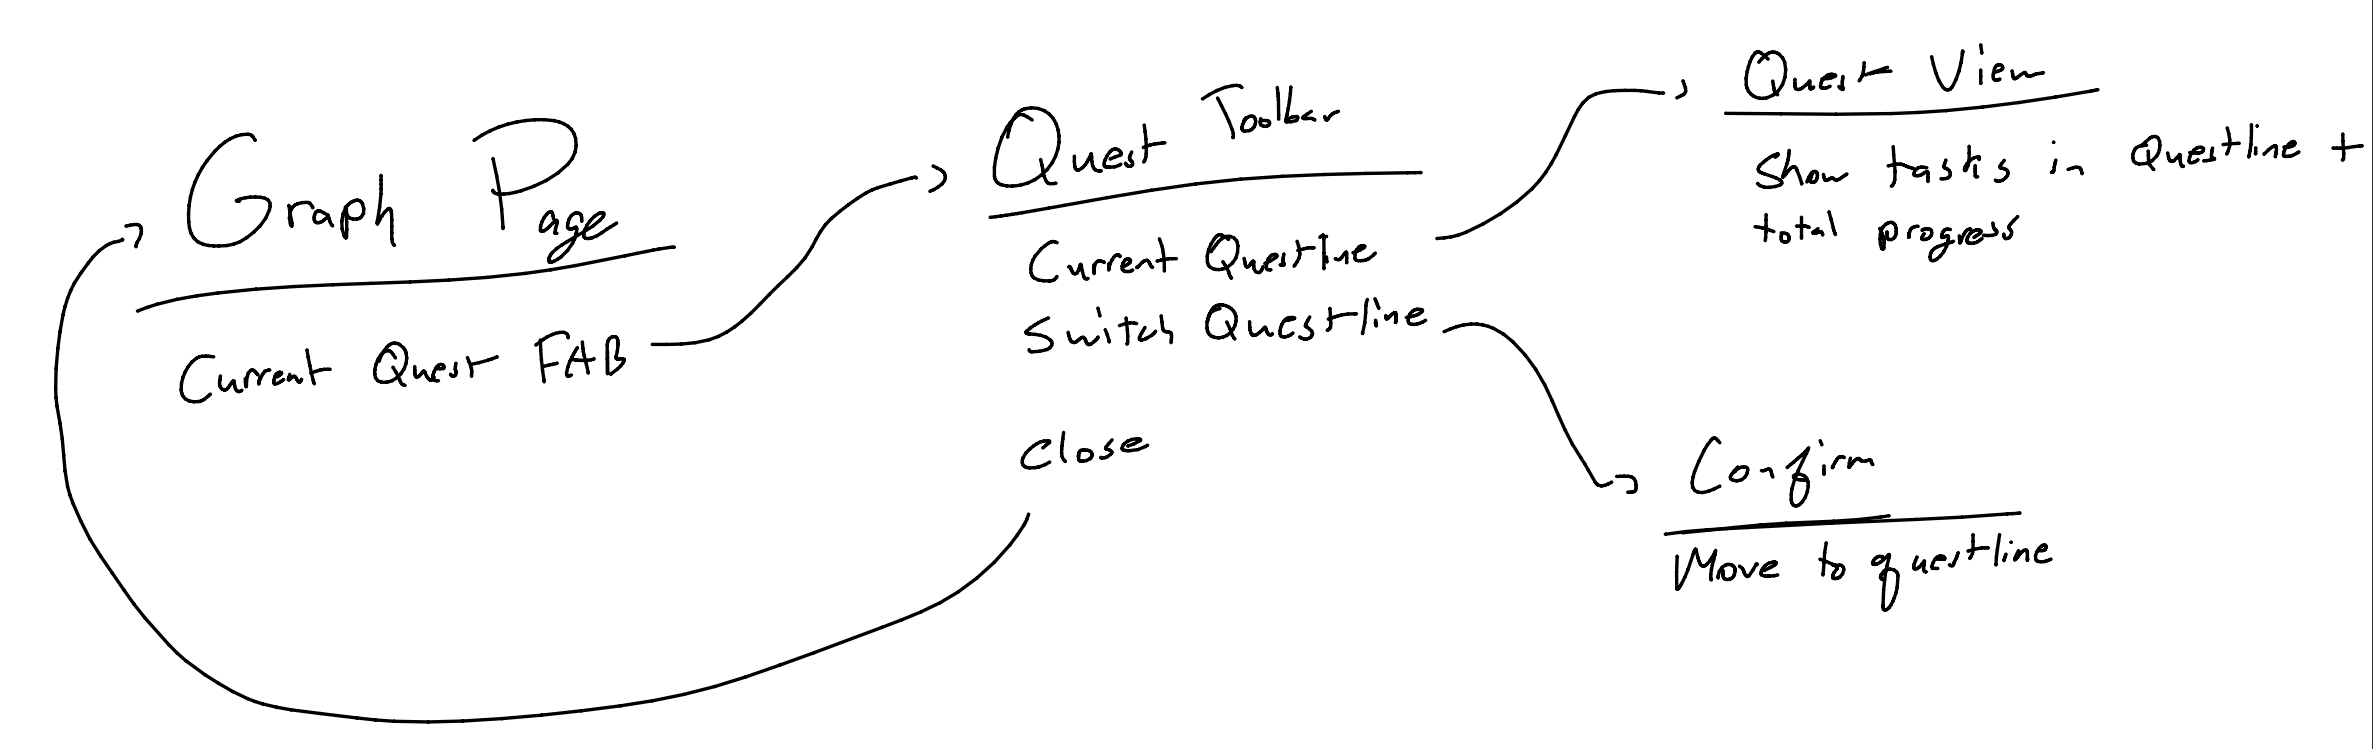
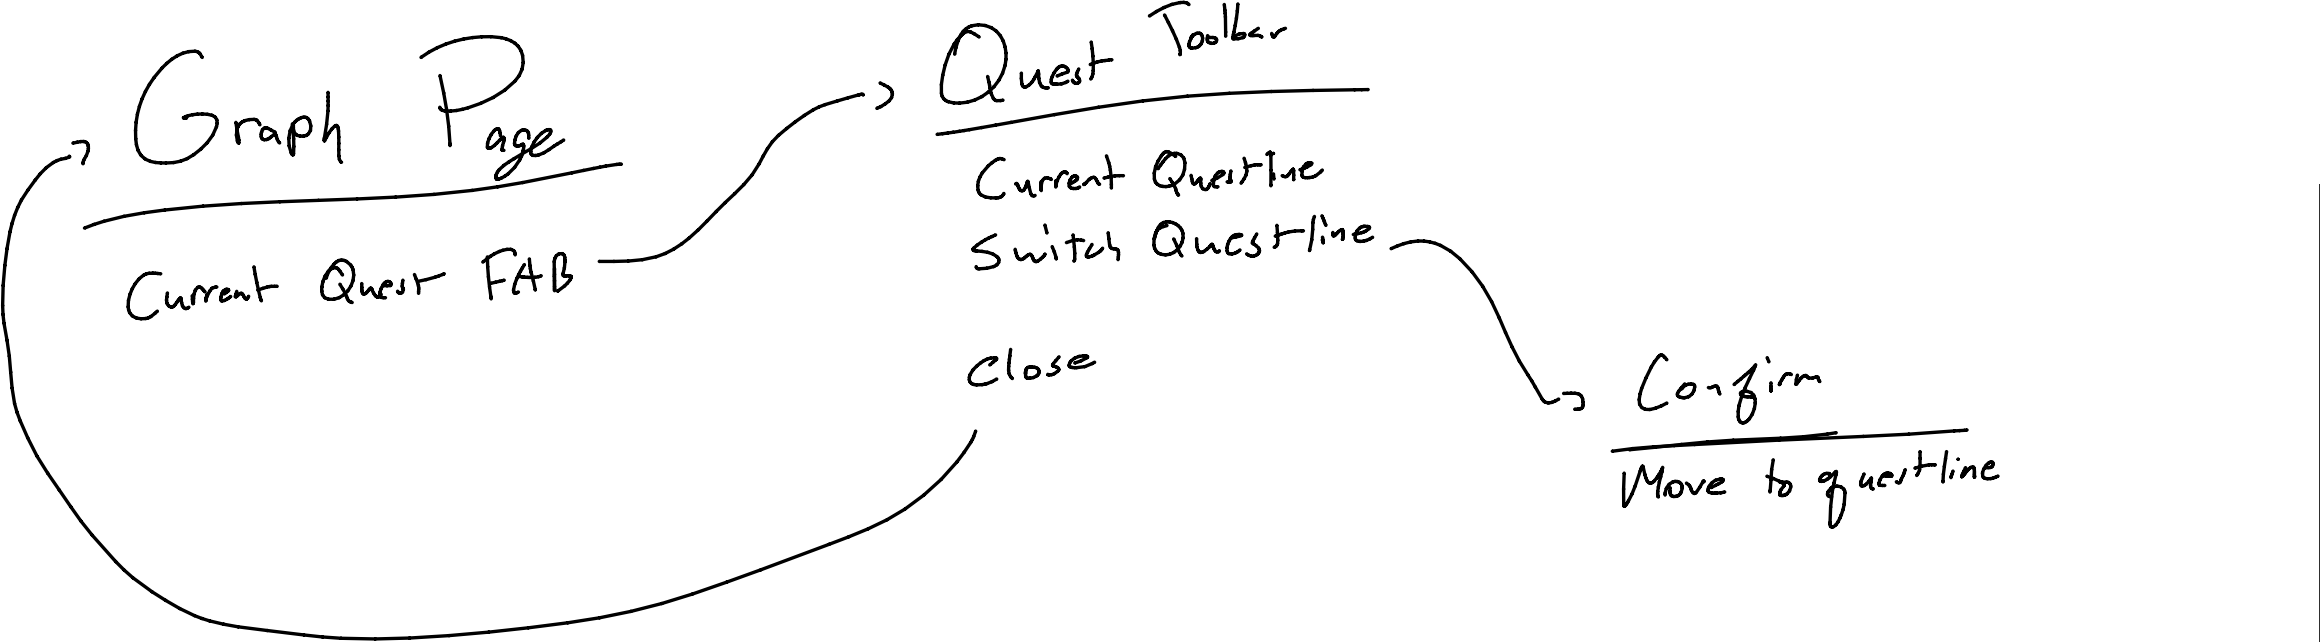
Apply discussed changes to pitch drawings

diff --git a/pitches/questline/README.md b/pitches/questline/README.md
@@ -26,7 +26,7 @@ This solution takes alot of inspiration from video games - particularly RPG's. M
 
 We want to implement the same sort of functionality in our software. Questlines are an easy way to keep track of your progress and game-ify tasks, allowing for user satisfaction and more importantly reducing the overwhelming aspect of choosing what to work on.
 
-Our solution is three parts: the Quest Toolbar, Quest View, and Current Task View. The Quest Toolbar is used to view the current questline and view progress, and the quest view will allow for the user to view all tasks in the line. The Current Task View would be an indicator of the current task to work on, so the user can quickly get to work without having to decide for themsevles. This would be on top of the current graph, and clicking on this would show the Quest Toolbar:
+Our solution is two parts: the Quest Toolbar and the Current Task View. The Quest Toolbar is used to view the current questline and view progress, and the quest view will allow for the user to view all tasks in the line. The Current Task View would be an indicator of the current task to work on, so the user can quickly get to work without having to decide for themsevles. This would be on top of the current graph, and clicking on this would show the Quest Toolbar:
 
 ![Questline Breadboard](./breadboard.png)
 
@@ -44,12 +44,12 @@ This toolbar would be accessible to the user upon them interacting with the curr
 
 ### Quest View
 
-This view provides a more detailed view for the current quest, providing all tasks in the questline. This view is different than the quest toolbar as a user may want to browse through the quest to see whats coming up next.
+This view was originally to provide a more detailed view for the current quest, providing all tasks in the questline. This view is different than the quest toolbar as a user may want to browse through the quest to see whats coming up next.
 
-![Quest View](./questview.png)
+[Old quest view drawing](./questview.png)
 
 #### Quest View Rabbit Hole
 
-One option I explored was to highlight every node in a quest when a quest was selected. This would get rid of quest view entirely. However, the implementation would be difficult, and would take alot of refactoring of the current codebase to implement properly. It would also conflict with another feature of our software - Subgraphs. In short, subgraphs are a secondary graph linked to a node in order to reduce clutter by seperating large dependency trees into its own graph that is still linked to a node. If we were to highlight nodes in the UI, how would we properly show subgraphs along with the parent nodes? The solution would take too much time to develop, and implementation isn't feasable. A list of tasks is more than enough to convey what we want while also being clear to the user.
+One option I explored was to highlight every node in a quest when a quest was selected. This would get rid of quest view entirely. However, the implementation would be difficult, and would take alot of refactoring of the current codebase to implement properly. It would also conflict with another feature of our software - Subgraphs. In short, subgraphs are a secondary graph linked to a node in order to reduce clutter by separating large dependency trees into its own graph that is still linked to a node. If we were to highlight nodes in the UI, how would we properly show subgraphs along with the parent nodes? The solution would take too much time to develop, and implementation isn't feasible. A list of tasks is more than enough to convey what we want while also being clear to the user.
 
-
+Then we realized that the quest view itself was a rabbit hole. Just the current task view and the quest toolbar are enough for users to enjoy this feature. Adding another screen is redundant and may lead to more and more duplicate views of the same data being added. Therefore, we will mark quest view as a no-go. We will also mark entering/expanding/analyzing the insides of subgraphs from this feature as a no-go and just treat them as entire nodes for the percentage calculation.
